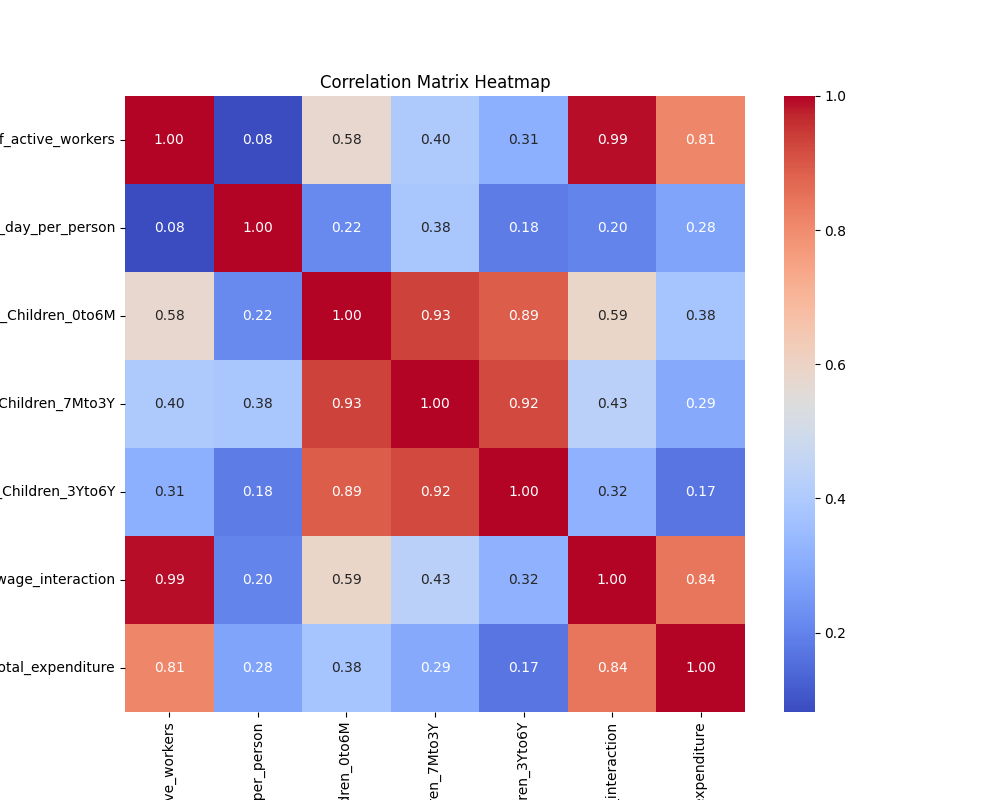
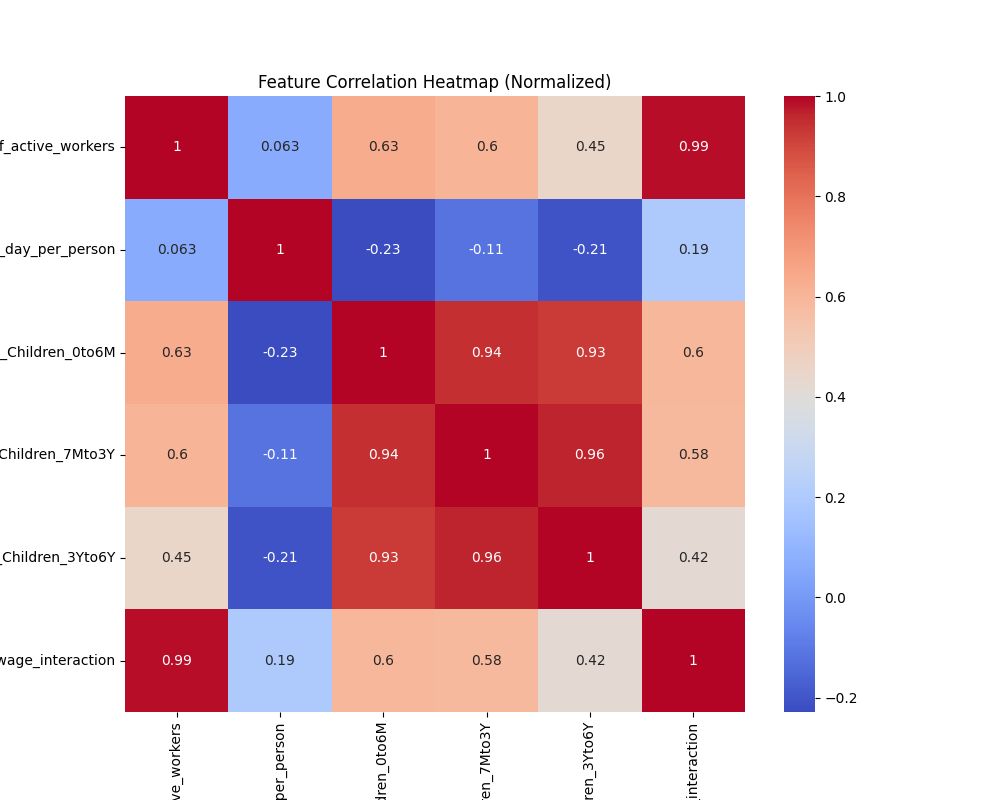
LAB2

diff --git a/LAB2/LAB2.py b/LAB2/LAB2.py
@@ -6,6 +6,7 @@ from sklearn.model_selection import train_test_split, GridSearchCV
 from sklearn.linear_model import LinearRegression, Lasso, Ridge, ElasticNet
 from sklearn.preprocessing import StandardScaler
 from sklearn.metrics import mean_squared_error, r2_score
+import os
 
 # ---------------------------------------------------------
 # 1. Data Processing & Feature Engineering
@@ -13,6 +14,27 @@ from sklearn.metrics import mean_squared_error, r2_score
 print("Loading and merging data...")
 mgnrega = pd.read_csv('MGNREGA_dataset_AtAGlance.csv')
 anganwadi = pd.read_csv('number_of_children_enrolled_in_anganwadis_2025_10.csv')
+
+def save_scatter_plots(df, target_col, output_dir='./img'):
+    if not os.path.exists(output_dir):
+        os.makedirs(output_dir)
+        print(f"Created directory: {output_dir}")
+
+    regressors = df.select_dtypes(include=['number']).columns.tolist()
+    if target_col in regressors:
+        regressors.remove(target_col)
+
+    print(f"Generating {len(regressors)} scatter plots...")
+    for col in regressors:
+        plt.figure(figsize=(8, 6))
+        plt.scatter(df[col], df[target_col], alpha=0.5, color='royalblue', edgecolors='k')
+        plt.title(f'{target_col} vs {col}', fontsize=14)
+        plt.xlabel(col, fontsize=12)
+        plt.ylabel(target_col, fontsize=12)
+        plt.grid(True, linestyle='--', alpha=0.7)
+        file_path = os.path.join(output_dir, f'scatter_{col}.png')
+        plt.savefig(file_path, bbox_inches='tight')
+        plt.close()
 
 # Aggregation & Merging
 ang_agg = anganwadi.groupby('D_Name').agg({
@@ -31,6 +53,9 @@ features = ['total_no_of_active_workers', 'average_wage_rate_per_day_per_person'
 target = 'total_expenditure'
 df_final = df[features + [target]].dropna()
 
+# RUN SCATTER PLOTS ON RAW DATA (Before scaling)
+save_scatter_plots(df_final, target)
+
 # ---------------------------------------------------------
 # 2. Relationship Analysis Plots
 # ---------------------------------------------------------
@@ -40,25 +65,31 @@ sns.heatmap(df_final.corr(), annot=True, cmap='coolwarm', fmt=".2f")
 plt.title('Correlation Matrix Heatmap')
 plt.savefig('correlation_heatmap.png')
 
-# Covariance Heatmap
+# Covariance Heatmap (Kept as per your original script logic)
 plt.figure(figsize=(10, 8))
-sns.heatmap(df_final.corr(), annot=True, cmap='viridis', fmt=".1e")
-plt.title('Correlation Matrix Heatmap')
-plt.savefig('correlation_heatmap.png')
+sns.heatmap(df_final.cov(), annot=True, cmap='viridis', fmt=".1e")
+plt.title('Covariance Matrix Heatmap')
+plt.savefig('covariance_heatmap.png')
 
 # ---------------------------------------------------------
-# 3. Preparation & Hyperparameter Tuning
+# 3. Normalization & Hyperparameter Tuning
 # ---------------------------------------------------------
 X = df_final[features]
 y = df_final[target]
+
+# Splitting
+X_train_raw, X_test_raw, y_train, y_test = train_test_split(X, y, test_size=0.2, random_state=42)
+
+# Normalization Step
 scaler = StandardScaler()
-X_scaled = scaler.fit_transform(X)
-X_train, X_test, y_train, y_test = train_test_split(X_scaled, y, test_size=0.2, random_state=42)
+X_train = scaler.fit_transform(X_train_raw)
+X_test = scaler.transform(X_test_raw)
+print("Features normalized using StandardScaler.")
 
 alphas = [0.001, 0.01, 0.1, 1, 10, 100, 1000, 10000]
 
 # Tuning Lasso
-lasso_gs = GridSearchCV(Lasso(), {'alpha': alphas}, cv=5, scoring='neg_mean_squared_error')
+lasso_gs = GridSearchCV(Lasso(max_iter=10000), {'alpha': alphas}, cv=5, scoring='neg_mean_squared_error')
 lasso_gs.fit(X_train, y_train)
 plt.figure(figsize=(8, 6))
 plt.plot(alphas, -lasso_gs.cv_results_['mean_test_score'], marker='o')
